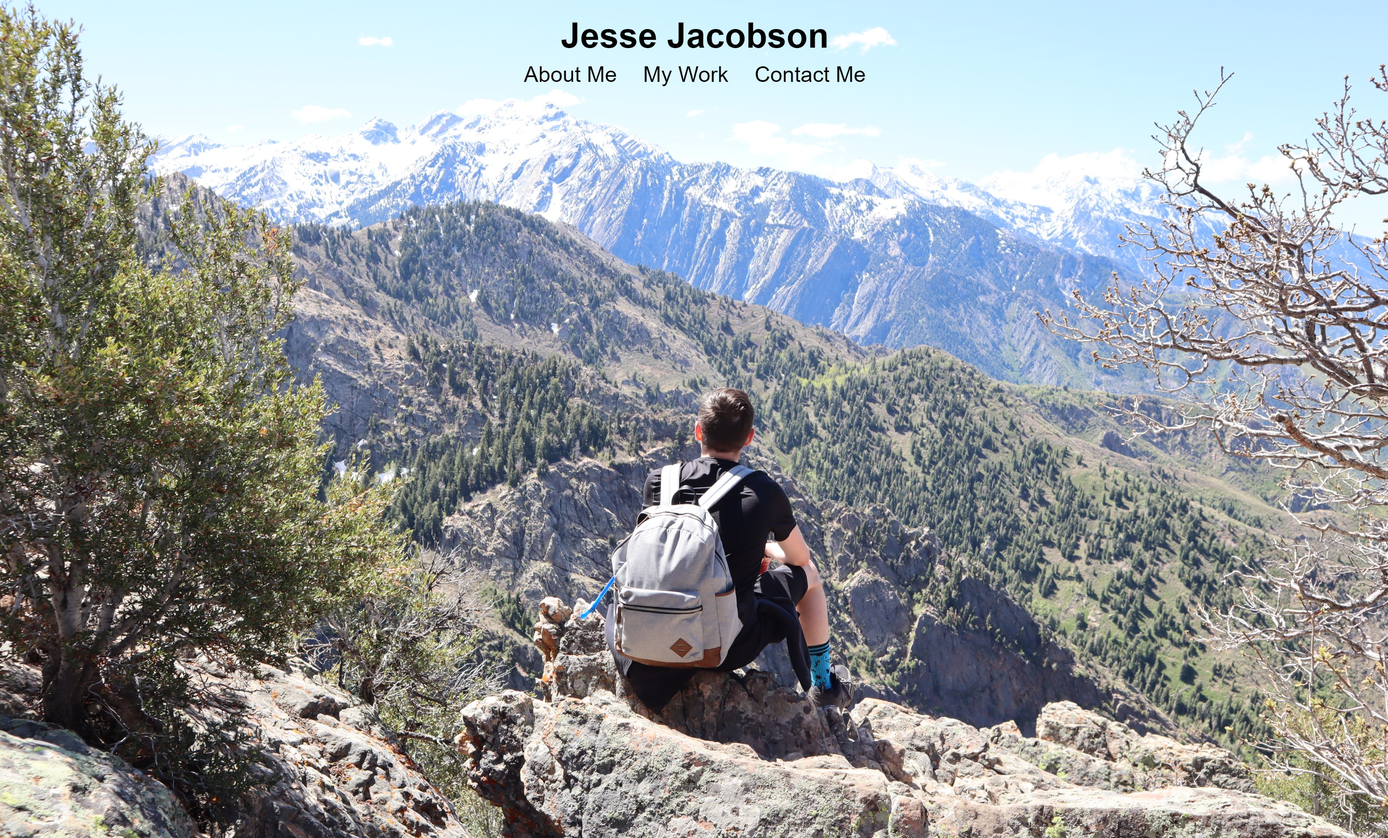
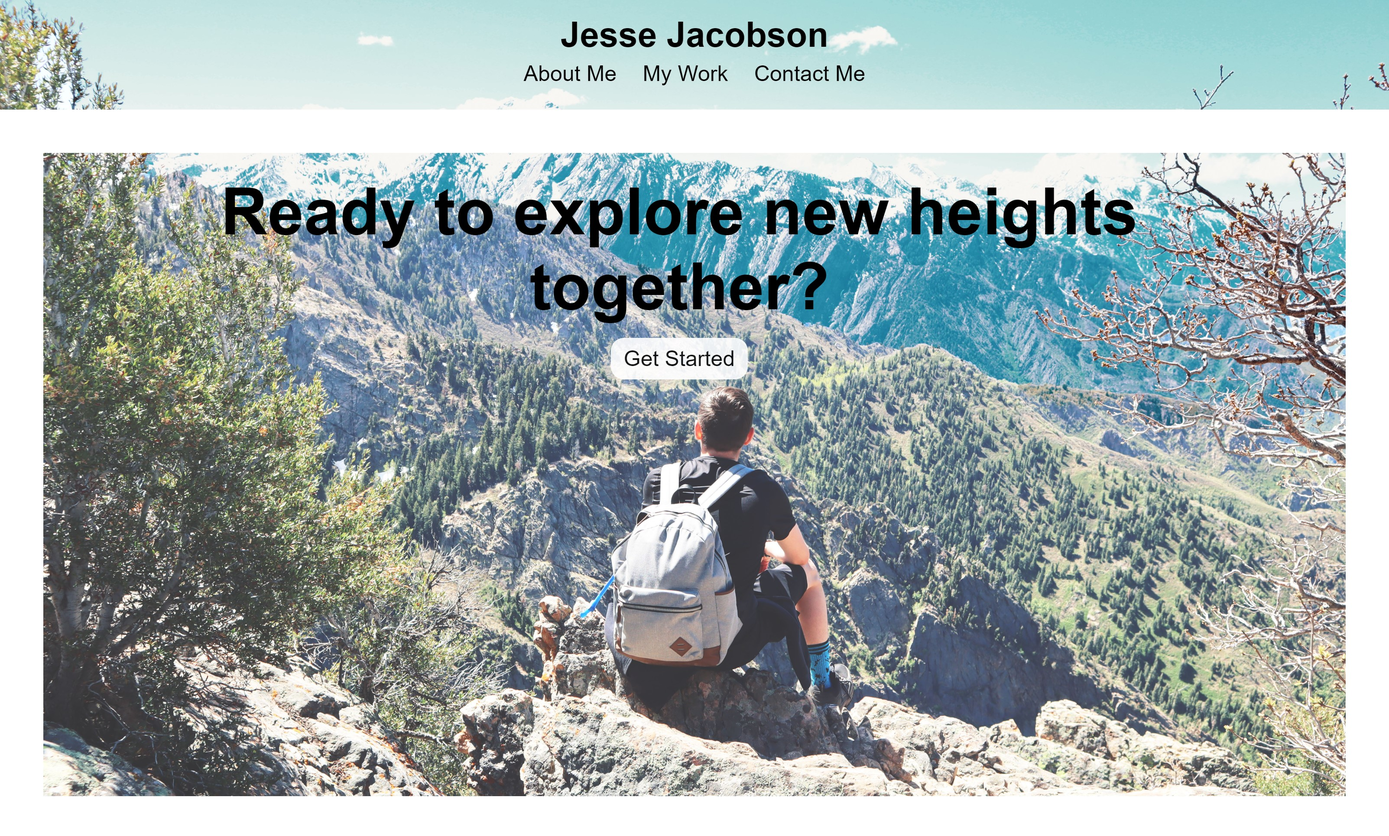
added media queries for new hero design

diff --git a/assets/css/style.css b/assets/css/style.css
@@ -64,7 +64,7 @@ header nav ul li a {
     flex-flow: row wrap;
     align-items: flex-start;
     justify-content: center;
-    padding: 0px 35px 490px 0px;
+    padding: 100px 35px 505px 35px;
     margin: 50px;
     background-image: url(../images/olympus-two.jpg);
     background-size: cover;
@@ -79,8 +79,11 @@ header nav ul li a {
 .olympus h2 {
     text-align: center;
     font-family: sans-serif;
-    font-size: 75px;
+    font-size: 50px;
     margin: 25px;
+    background: #fff;
+    opacity: 90%;  
+    border-radius: 15px;
 }
 
 .hero nav a {
@@ -96,7 +99,6 @@ header nav ul li a {
     border-radius: 15px;
     text-shadow: none;
 }
-
 /* About Me Styles */
 
 .intro {
@@ -310,12 +312,14 @@ header nav ul li a {
     header nav ul li a {
         font-size: 20px;
     }
-    
     .hero {
-        background-position: 53%;
-        height: 1250px;
+        height: 950px;
     }
-    
+
+    .hero nav a {
+        font-size: 5vw;
+    }
+
     .intro-img {
         width: 25%;
     }
@@ -345,14 +349,28 @@ header nav ul li a {
     }
 
     .hero {
-        background-position: 53%;
-        height: 915px;
+        flex-flow: column wrap;
+        align-items: center;
+        justify-content: flex-start;
+        margin: 25px;
+        padding: 10px 20px;
+        height: 500px;
     }
-
-    .hero-words {
-        width: 100%;
+    
+    .olympus h2 {
+        font-size: 40px;
         text-align: center;
-    }
+        padding: 10px;
+        background: #fff;
+        opacity: 90%;  
+        border-radius: 15px;
+        }
+
+    .hero nav a {
+    padding: 10px 15px;
+    font-size: 3vw;
+    text-align: center;
+     }
 
     .intro, .work, .contact {
         border-top: 0px solid transparent;
@@ -386,9 +404,9 @@ header nav ul li a {
 /* MEDIA QUERY FOR TABLETS AND SMALLER */
 
 @media screen and (max-width: 768px) {
+
     .hero {
-        height: 916px;
-        background-position: 53%;
+        height: 800px;
     }
 
     .intro {
@@ -438,9 +456,21 @@ header nav ul li a {
 
 /* MEDIA QUERY FOR MOBILE PHONES AND SMALLER */
 @media screen and (max-width: 575px) {
-    
+
     .hero {
-        height: 535px;
+        flex-flow: column wrap;
+        align-items: center;
+        justify-content: center;
+        height: 385px;
+        background-position: 53%;
+    }
+
+    .olympus h2 {
+        font-size: 25px;
+    }
+
+    .hero nav a {
+        font-size: 5vw;
     }
 
     header nav ul {
